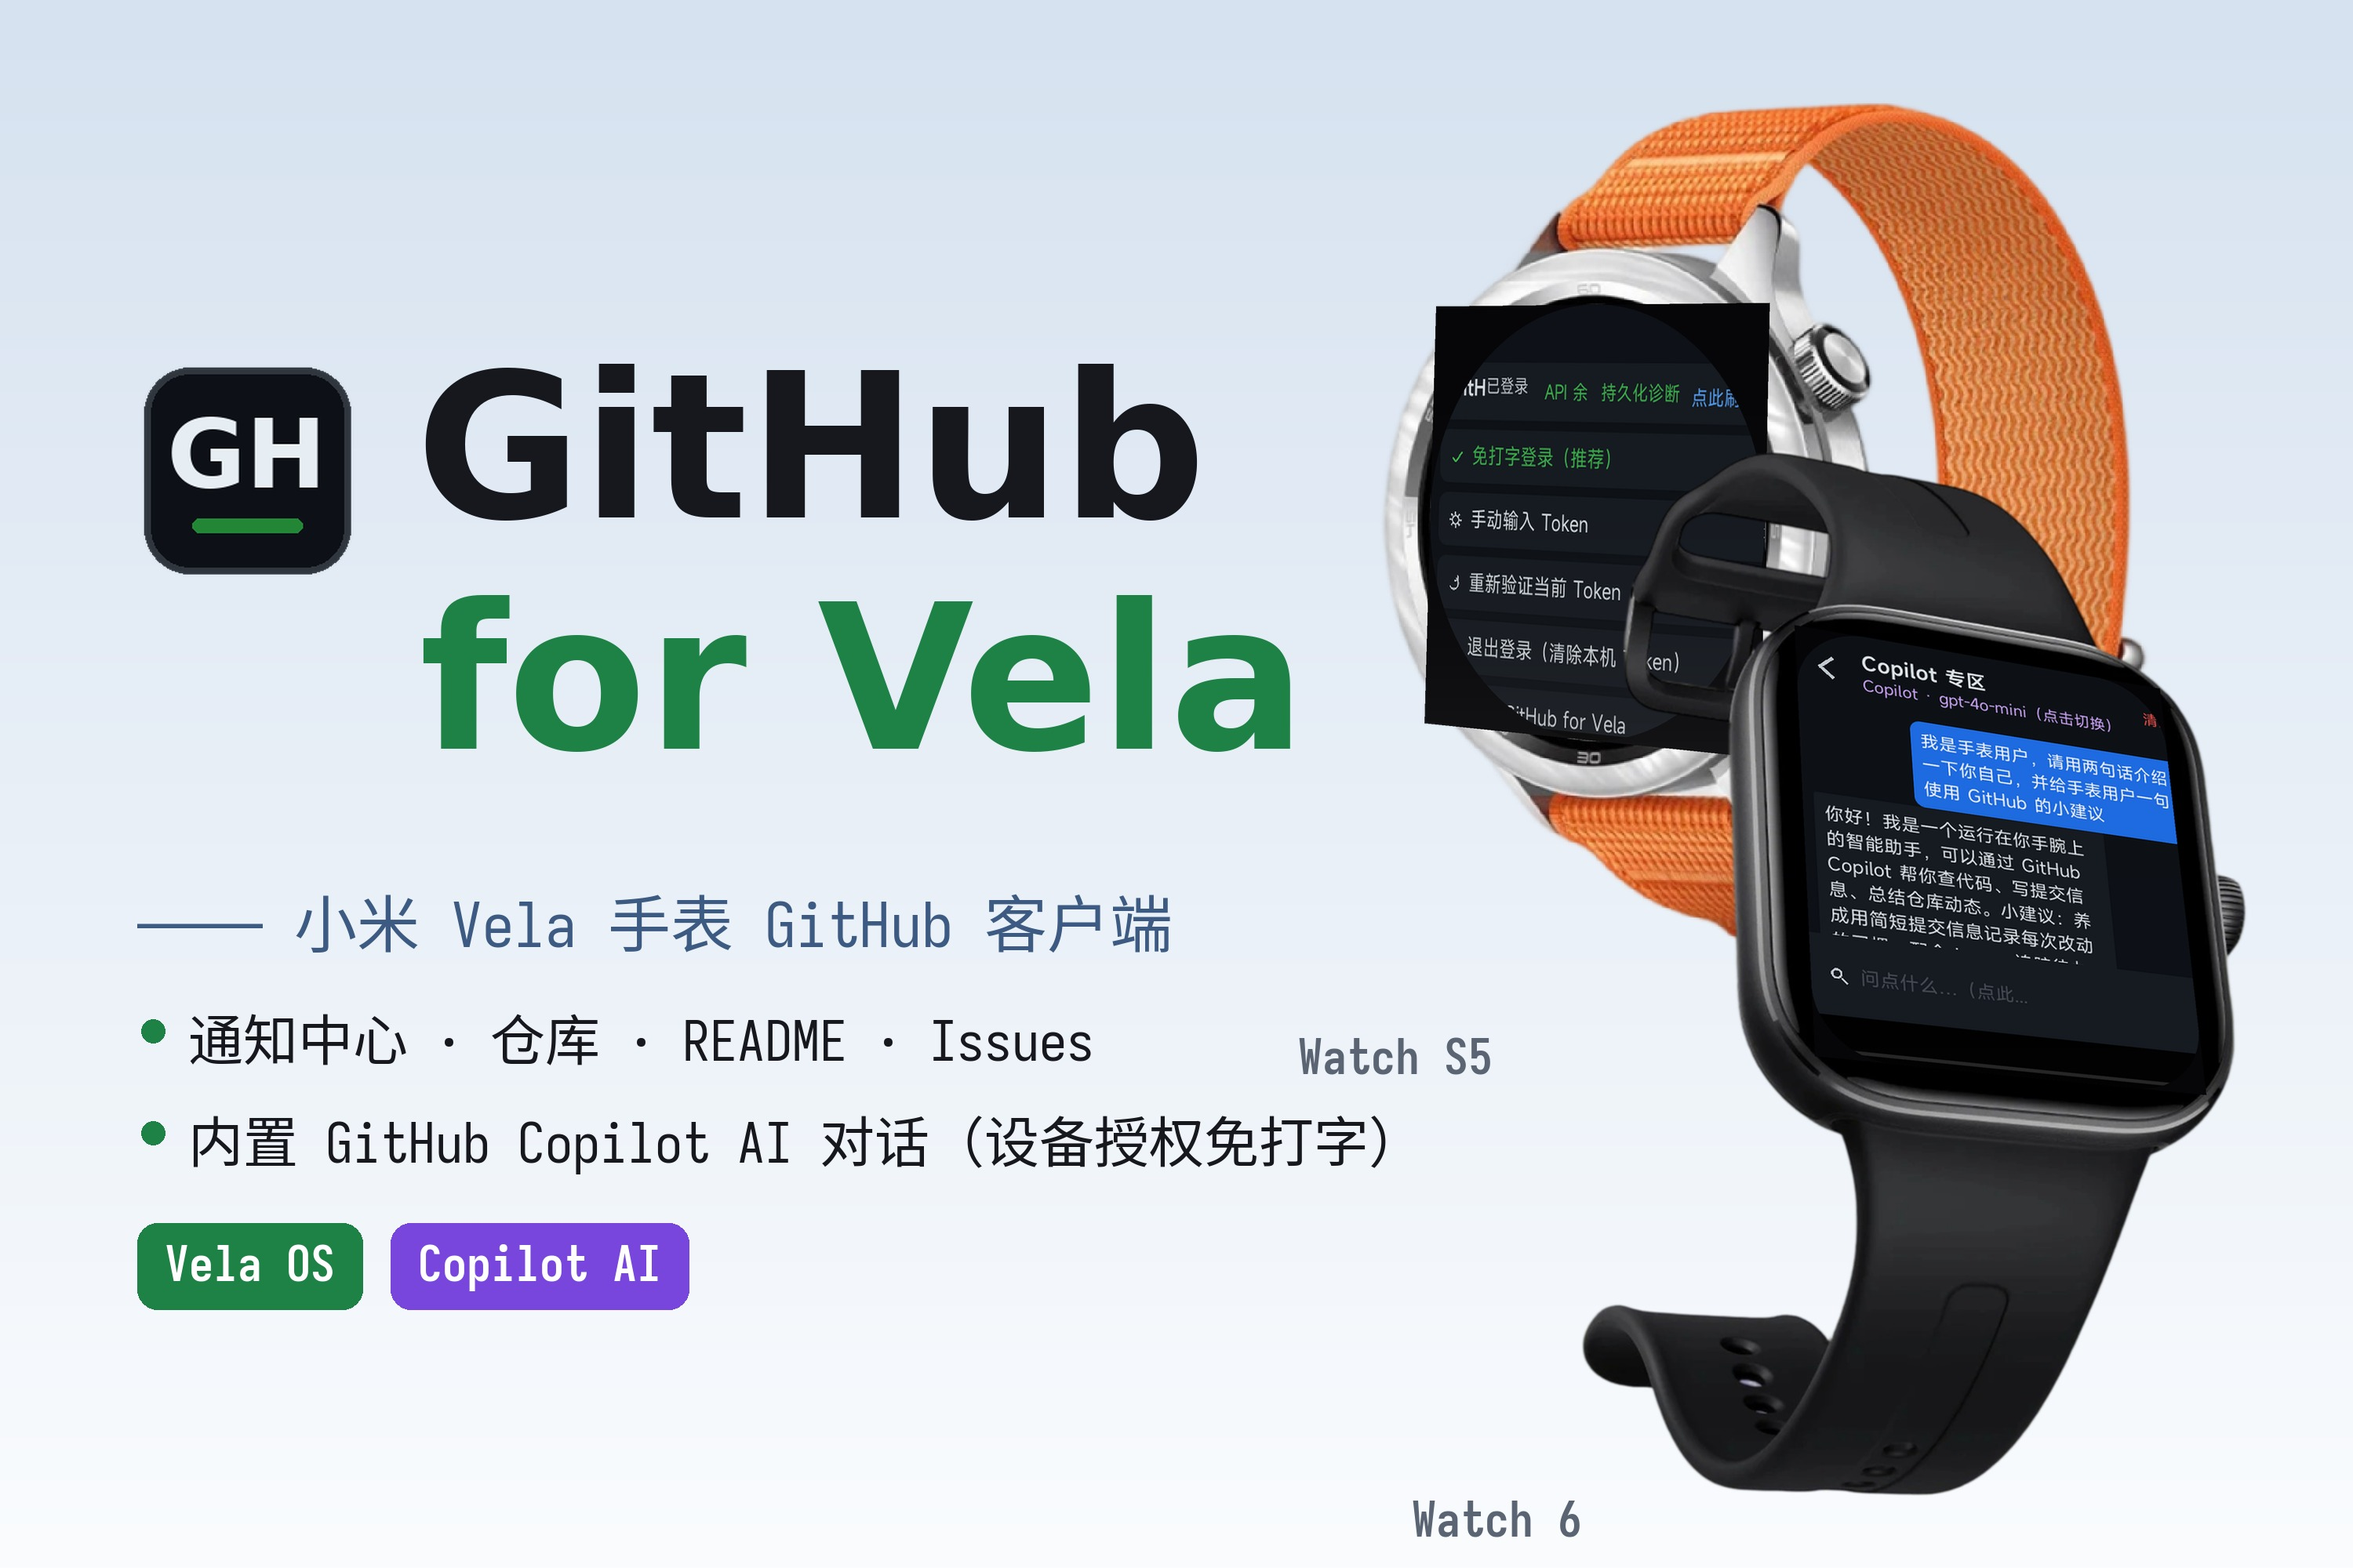
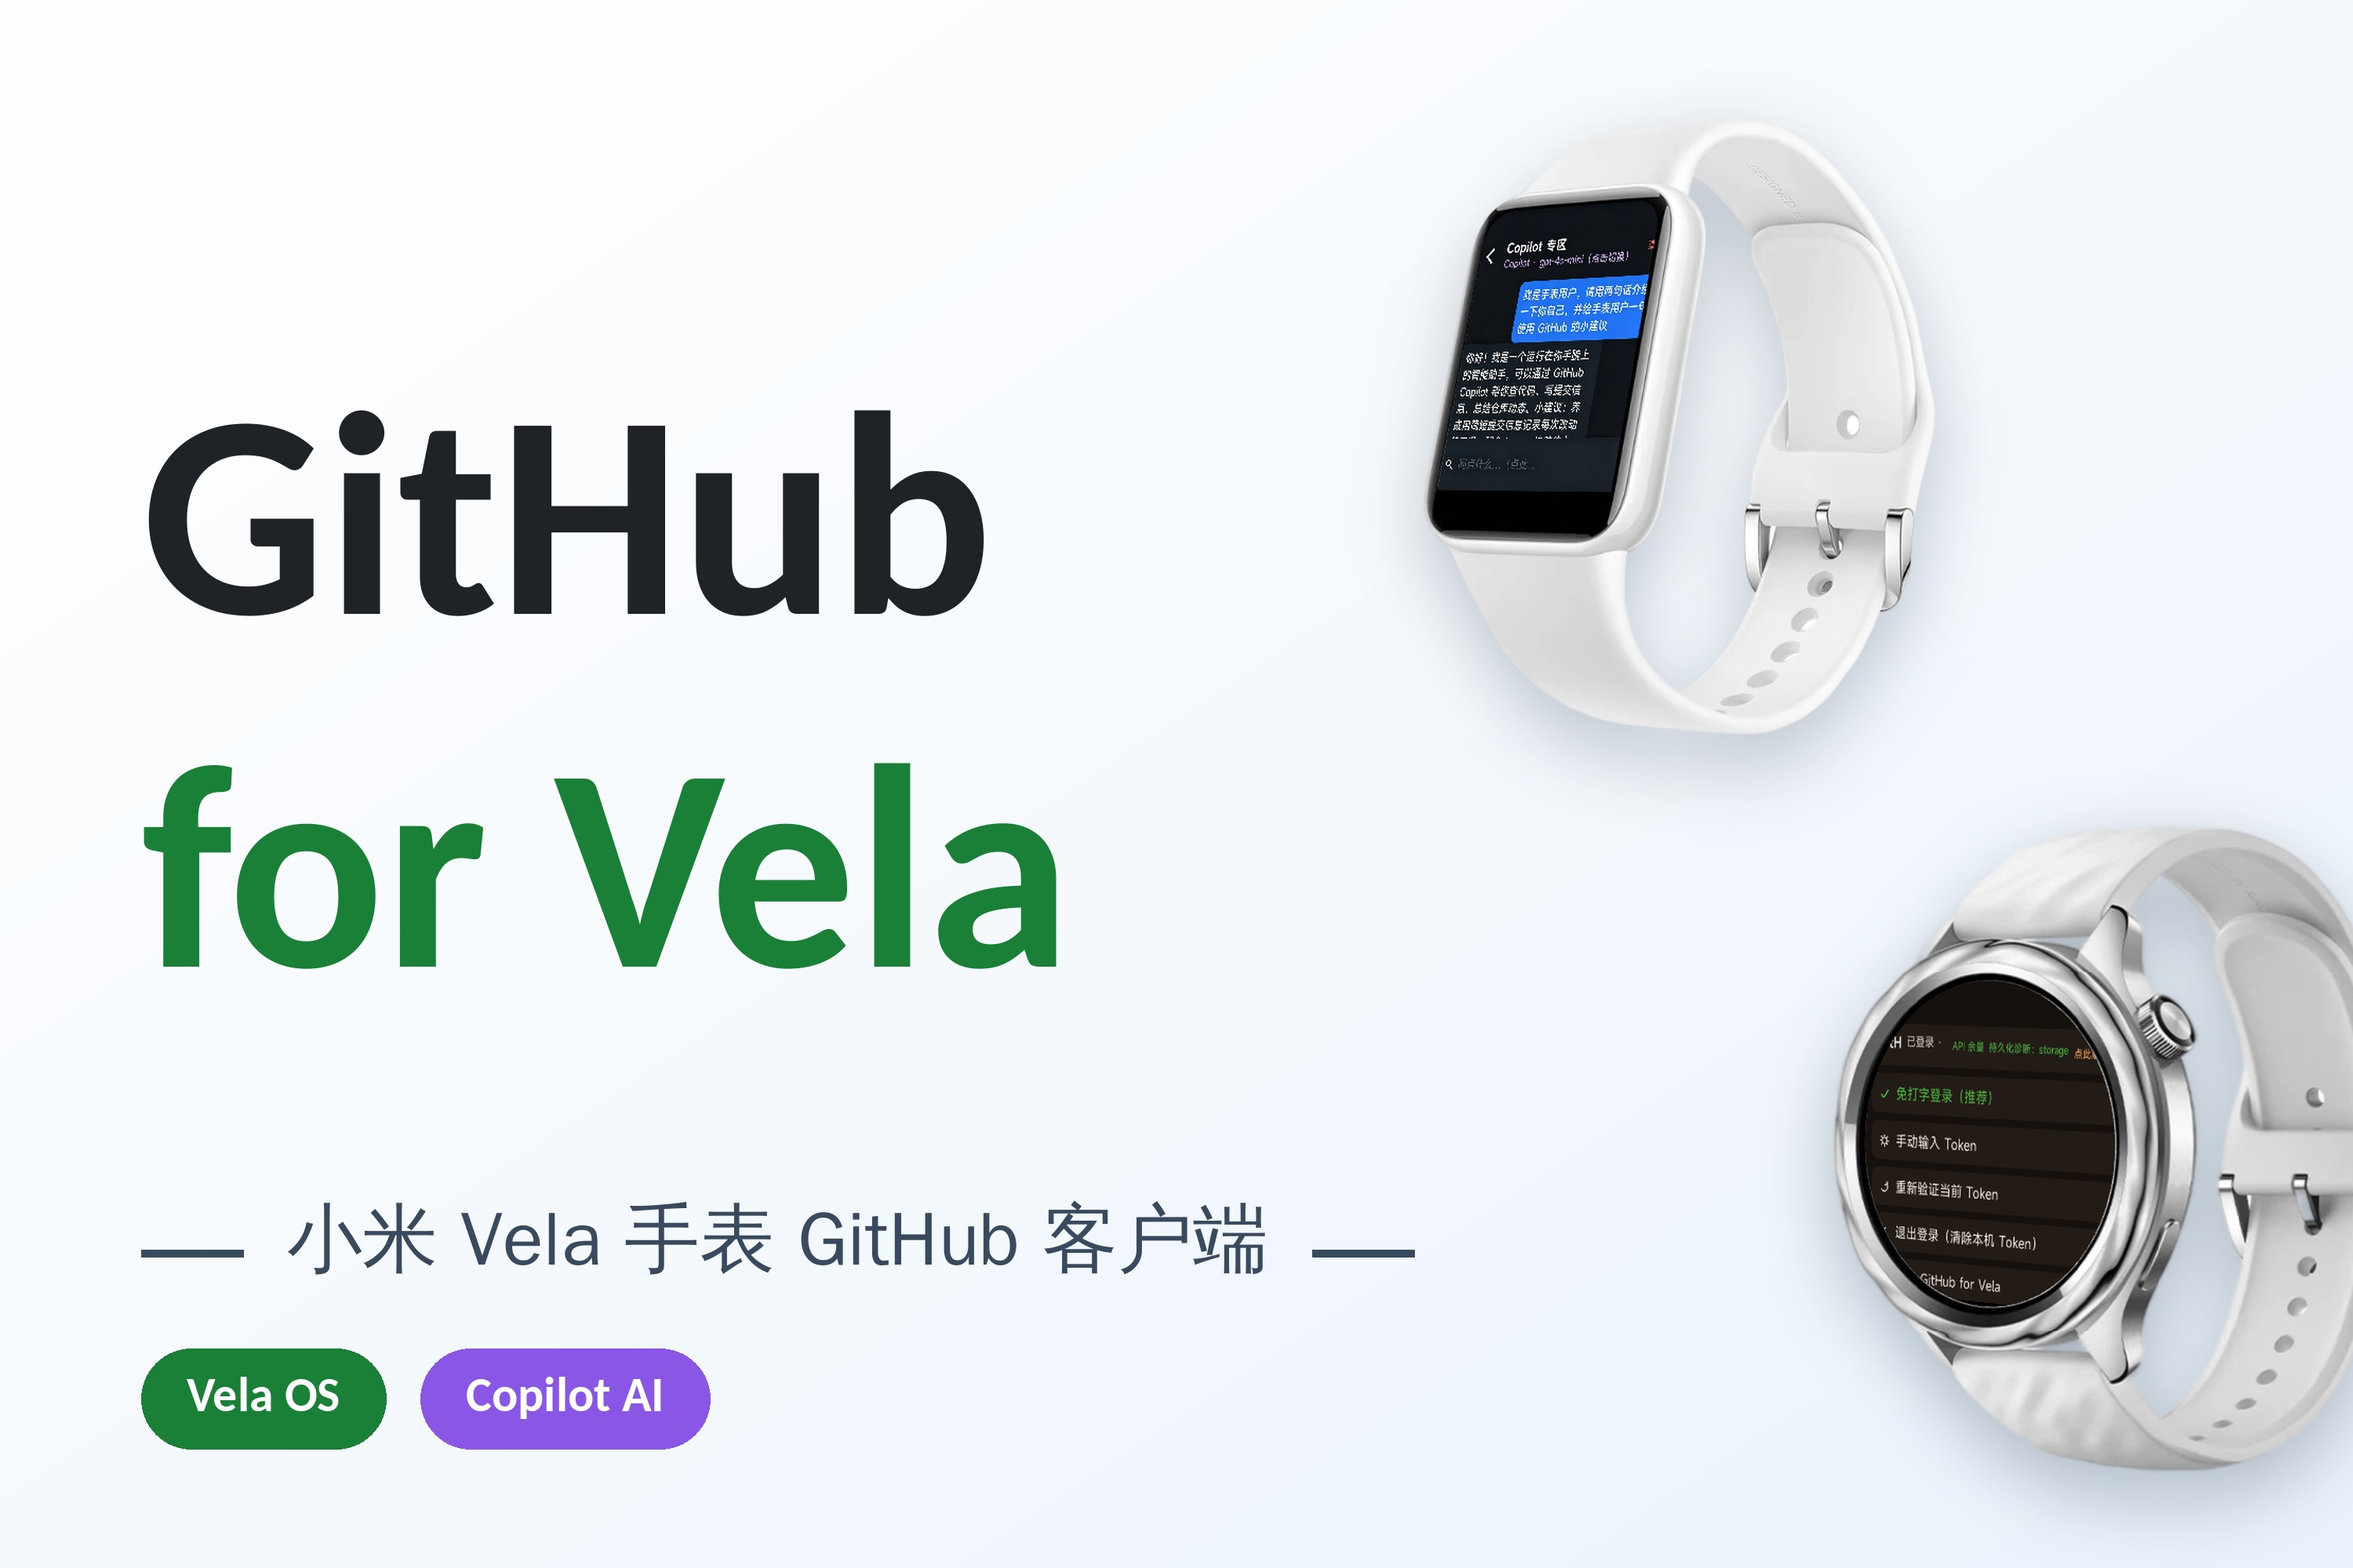
docs: 横幅重制——BandQQ 式简洁版式（用户自制透视样机：手环10Pro Copilot对话 + Watch S4 设置页），移除表型标注，保留 Vela OS / Copilot AI 徽章；致谢行补漏方括号并同步机型说明

diff --git a/README.md b/README.md
@@ -43,7 +43,7 @@
 |:---:|:---:|
 | ![设置](docs/screenshots-vvm/07-设置-双通道登录.png) | ![关于页](docs/screenshots-vvm/08-关于页.png) |
 
-> 宣传横幅中的真机样机由 [miband-proto-forge](https://github.com/zaona/miband-proto-forge) 模板透视合成（Watch 6 / Watch S5 机型标注为宣传示意）。
+> 宣传横幅中的真机样机由 [miband-proto-forge](https://github.com/zaona/miband-proto-forge) 模板透视合成。
 
 ## ✨ 功能
 
